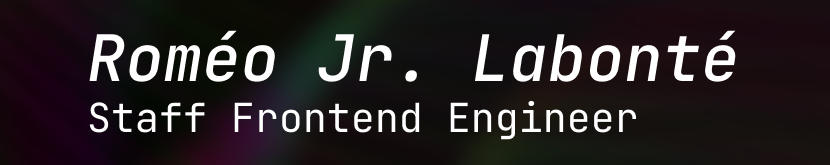
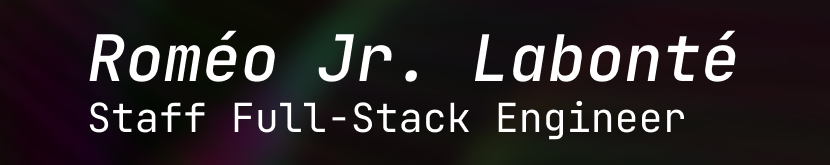
fix: fullstack is probably more relevant

Changed region(s): [[0.3012, 0.6061, 0.8434, 0.8485], [0.6928, 0.6061, 0.7229, 0.6364]]

diff --git a/README.md b/README.md
@@ -1,5 +1,5 @@
 ![Header Image](assets/header.png)
-### Hey 👋 I’m a highly self-driven frontend engineer who likes designing systems and creating pixel-perfect interfaces. I love making things move, look, and feel good.
+### Hey 👋 I’m a highly self-driven full-stack engineer who likes designing systems and creating pixel-perfect interfaces. I love making things move, look, and feel good.
 #### _Outside of work, you can often find me working on [England in London](https://romjim.games), fiddling with my Neovim config, or unreasonably grinding all achievements in some games._
 
 <br/>
